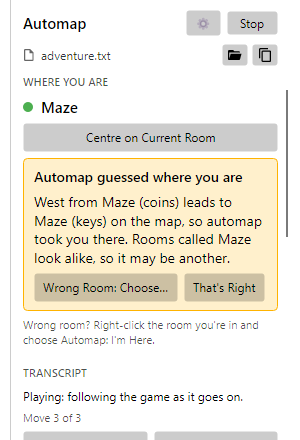
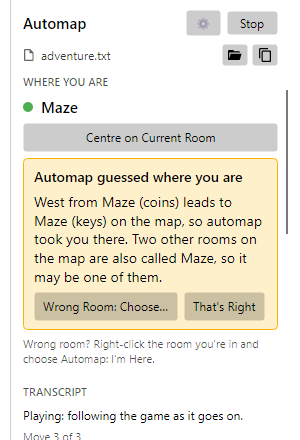
Guide: What's new and the automap guess picture, up to date (#69)
Claude-Session: https://claude.ai/code/session_01M71nqtdkg44mDABgx1QWjM

Changed region(s): [[0.06, 0.5318, 0.93, 1.0]]

diff --git a/Docs/whats-new.md b/Docs/whats-new.md
@@ -13,6 +13,9 @@ The highlights of each release, newest first. Every change is listed in the [cha
 
 - **Add New Region...** on a room's **Set Region** menu makes a region for the selected rooms, and the default region
   is called **No Region**.
+- **Directions** know a magic word back once you've used it both ways ("xyzzy" there and back).
+- **Automap's guesses** read more plainly: an untried way is "unexplored", a way that comes back says it looks like
+  a loop, and **Wrong Room: Choose...** shows a new room beside the room you left.
 - **Assume joins go both ways** is the new name for "Always assume two-way connections", and each option in the
   automapping dialog has an **ⓘ** to hover over for more about it.
 - **A shorter automapping dialog.** The game screen is shown or hidden on the automap panel, and join labels follow
